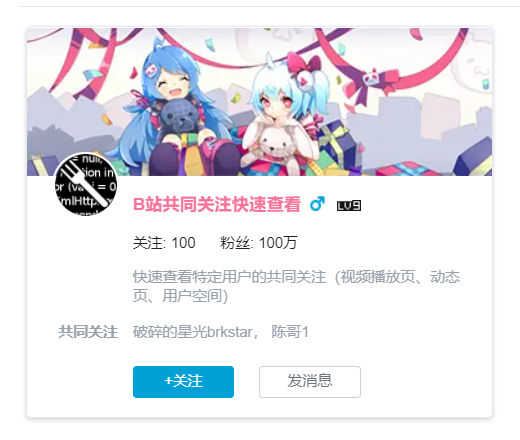
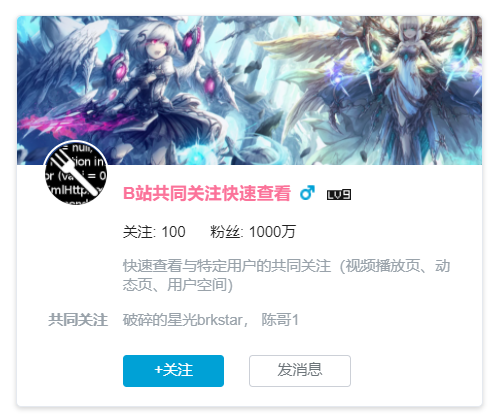
B站共同关注快速查看 1.2.1.20210626
* 语病修复。
* 添加截图模板。

diff --git a/script/BilibiliSameFollowing/screenshot/用户卡片.template.html b/script/BilibiliSameFollowing/screenshot/用户卡片.template.html
@@ -1,0 +1,9 @@
+<div class="user-card" style="left: 192.088px; top: 911.744px;">
+  <div class="bg" style="background-image:url(//i2.hdslb.com/bfs/space/768cc4fd97618cf589d23c2711a1d1a729f42235.png@750w_240h.webp);background-image: url()"></div><a target="_blank" class="face"><img src="https://greasyfork.org/packs/media/images/blacklogo96-b2384000fca45aa17e45eb417cbcbb59.png"></a>
+  <div class="info">
+    <p class="user"><a target="_blank" class="name vip-red-name">B站共同关注快速查看</a><i class="sex men"></i><a target="_blank"><i class="level l9"></i></a></p>
+    <p class="social"><a target="_blank">关注: <span class="like">100</span></a><a target="_blank">粉丝: <span class="fans">1000万</span></a></p>
+    <p class="sign">快速查看与特定用户的共同关注（视频播放页、动态页、用户空间）</p>
+  </div>
+  <div class="btn-box"><a class="like " mid="" uname="B站共同关注快速查看"><span class="default-text">+关注</span><span class="hover-text">取消关注</span></a><a target="_blank" class="message">发消息</a></div>
+</div>

diff --git a/script/BilibiliSameFollowing/BilibiliSameFollowing.js b/script/BilibiliSameFollowing/BilibiliSameFollowing.js
@@ -1,9 +1,9 @@
 // ==UserScript==
 // @name            B站共同关注快速查看
-// @version         1.2.0.20210626
+// @version         1.2.1.20210626
 // @namespace       laster2800
 // @author          Laster2800
-// @description     快速查看特定用户的共同关注（视频播放页、动态页、用户空间）
+// @description     快速查看与特定用户的共同关注（视频播放页、动态页、用户空间）
 // @icon            https://www.bilibili.com/favicon.ico
 // @homepage        https://greasyfork.org/zh-CN/scripts/428453
 // @supportURL      https://greasyfork.org/zh-CN/scripts/428453/feedback

diff --git a/script/BilibiliSameFollowing/README.md b/script/BilibiliSameFollowing/README.md
@@ -2,7 +2,7 @@
 
 相关脚本：**[B站稍后再看功能增强](https://greasyfork.org/zh-CN/scripts/395456)**、**[B站封面获取](https://greasyfork.org/zh-CN/scripts/395575)**、**[B站防剧透进度条](https://greasyfork.org/zh-CN/scripts/411092)**
 
-快速查看特定用户的共同关注（视频播放页、动态页、用户空间），详情查看下方截图。求好评，求收藏💔。点击查看 [更新日志](https://gitee.com/liangjiancang/userscript/blob/master/script/BilibiliSameFollowing/changelog.md)。
+快速查看与特定用户的共同关注（视频播放页、动态页、用户空间），详情查看下方截图。求好评，求收藏💔。点击查看 [更新日志](https://gitee.com/liangjiancang/userscript/blob/master/script/BilibiliSameFollowing/changelog.md)。
 
 ## 补充说明
 
